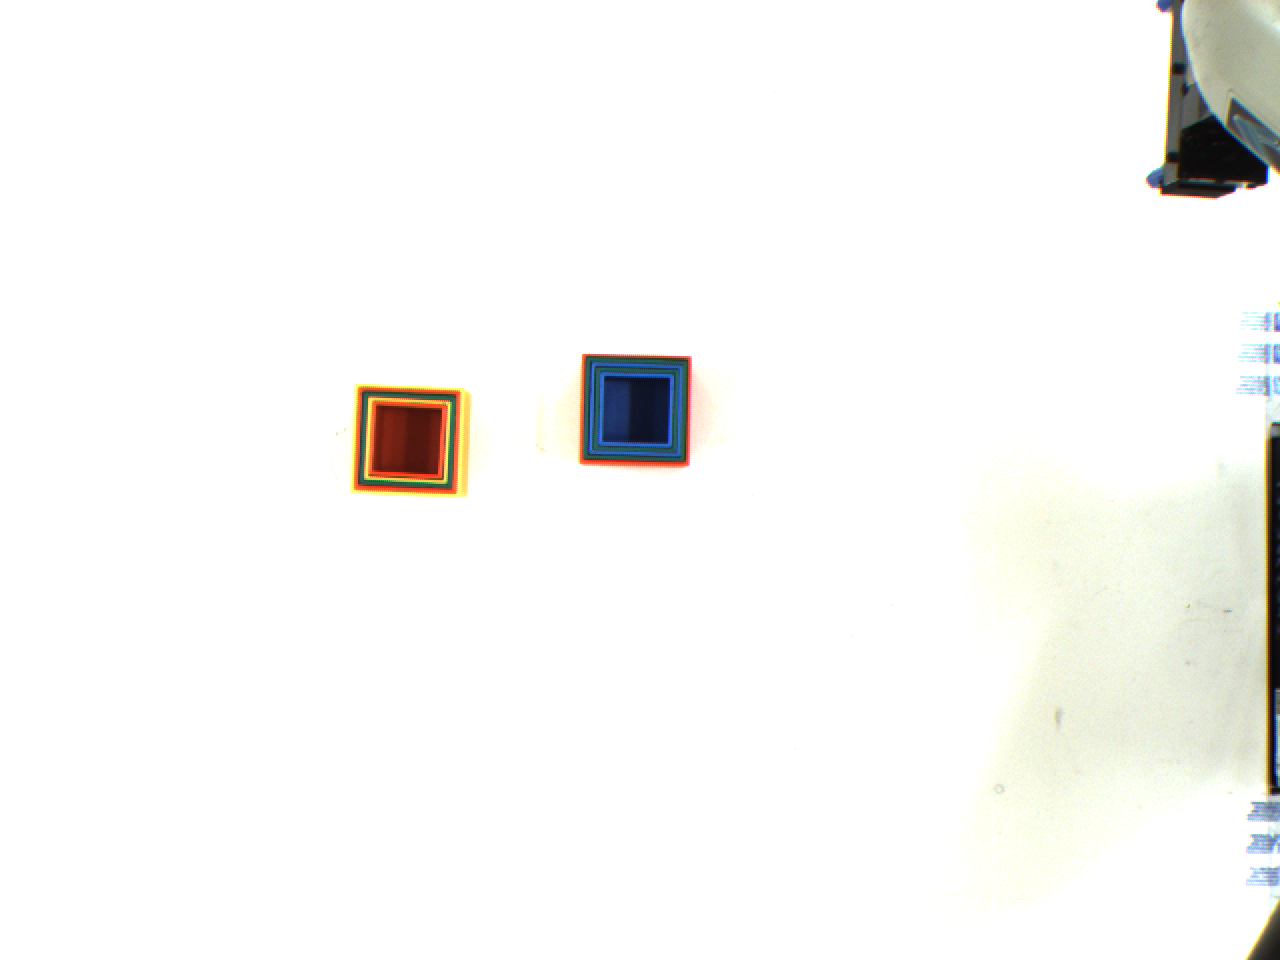
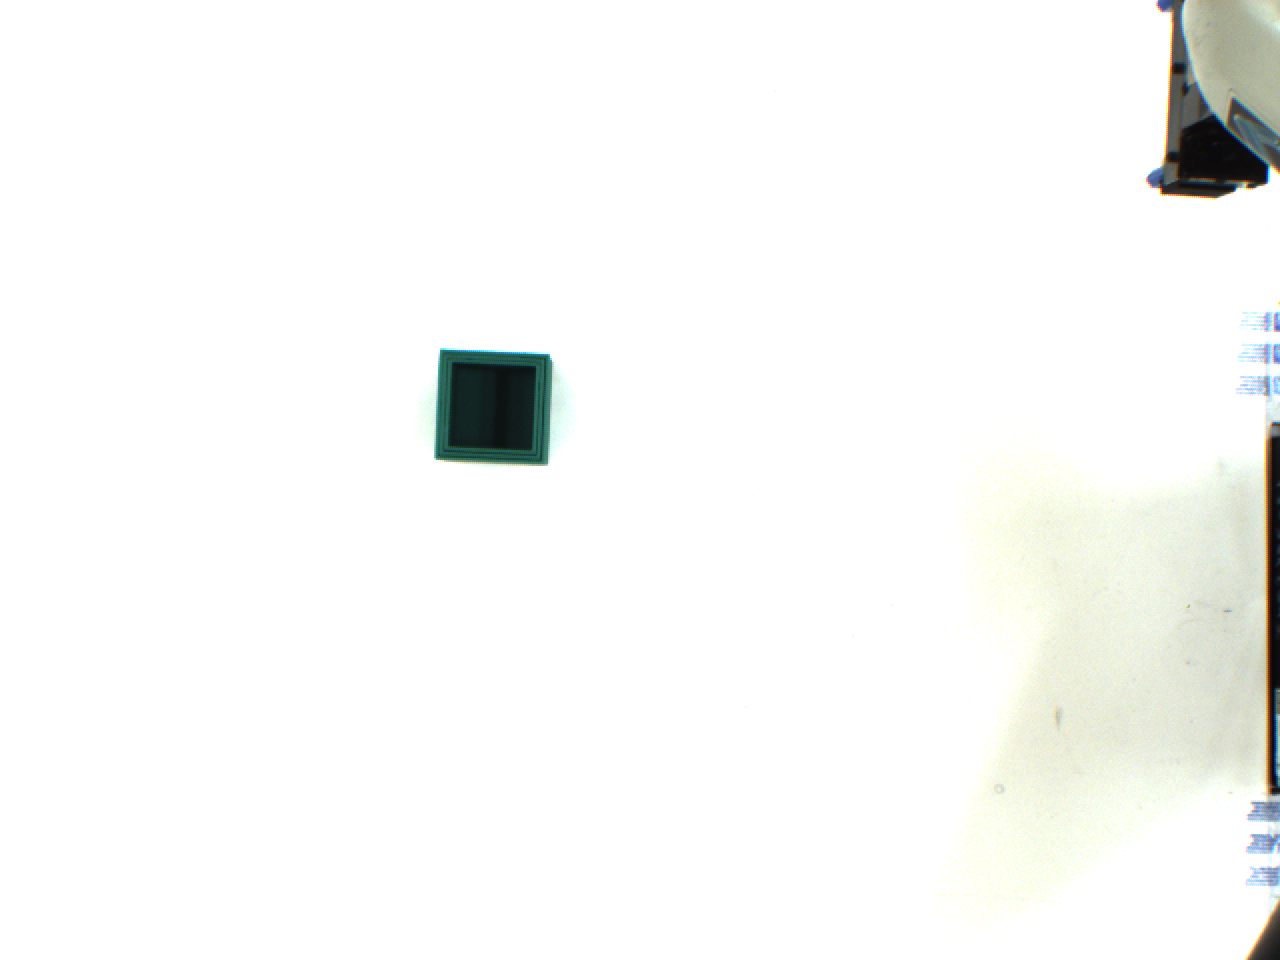
ciirc

diff --git a/main.py b/main.py
@@ -92,9 +92,9 @@ def cube_insertion(hard_home: bool = False, mode: str = 'all'):
                 square.parent_id = init_squares[(square.id, square.color)]
 
         # Visualize squares
-        # image_path = os.path.join(camera_cfg['img_directory'], 'dark.png')
-        # image = cv.imread(image_path)
-        # visualize_squares(image, squares, 'parents')
+        image_path = os.path.join(camera_cfg['img_directory'], 'dark.png')
+        image = cv.imread(image_path)
+        visualize_squares(image, squares, 'parents')
 
         # Create cube objects and filter out unreachable cubes
         cubes = [square.create_cube(A, b, motion_cfg) for square in squares]
@@ -114,7 +114,7 @@ def cube_insertion(hard_home: bool = False, mode: str = 'all'):
 
 
 def main():
-    detection_demo('detection/images11', 'ids')
+    detection_demo('detection/images20', 'areas')
     # cube_insertion(False, None)
 
 
